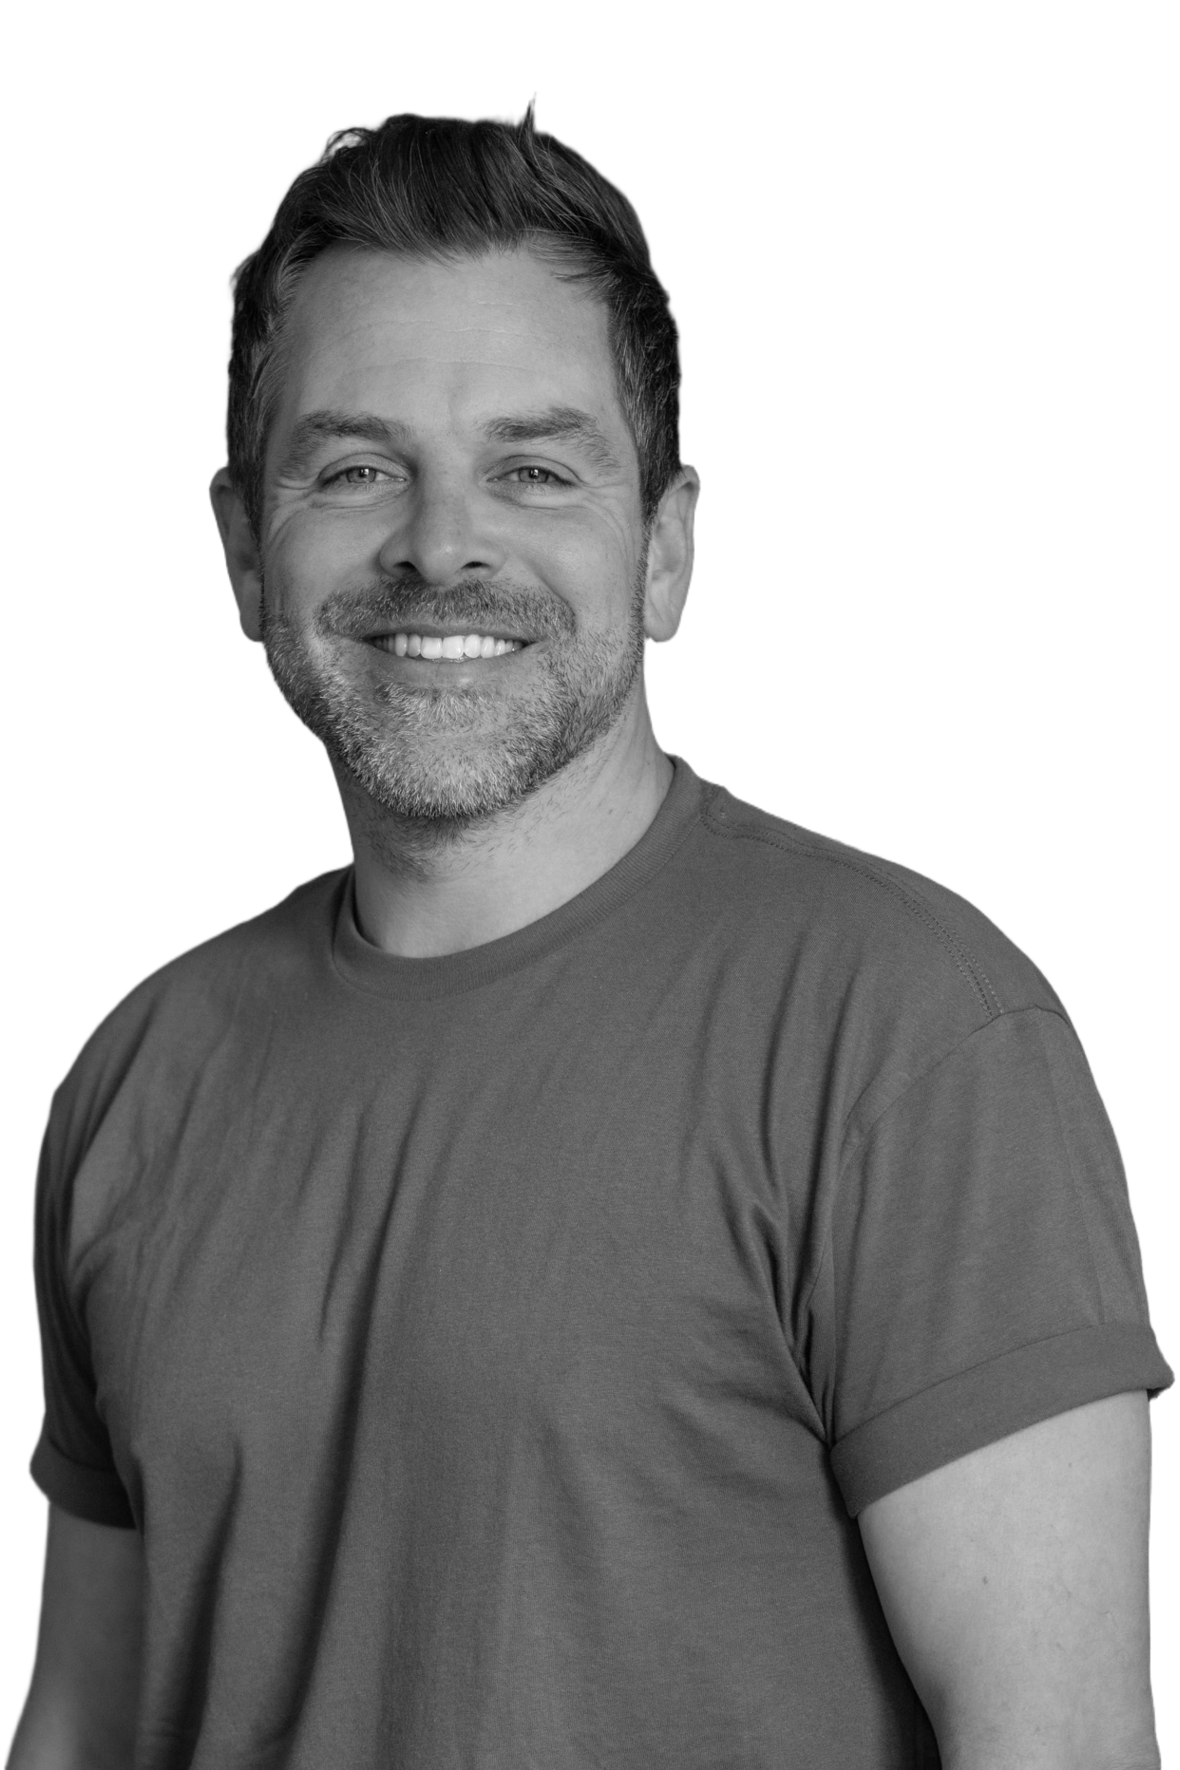
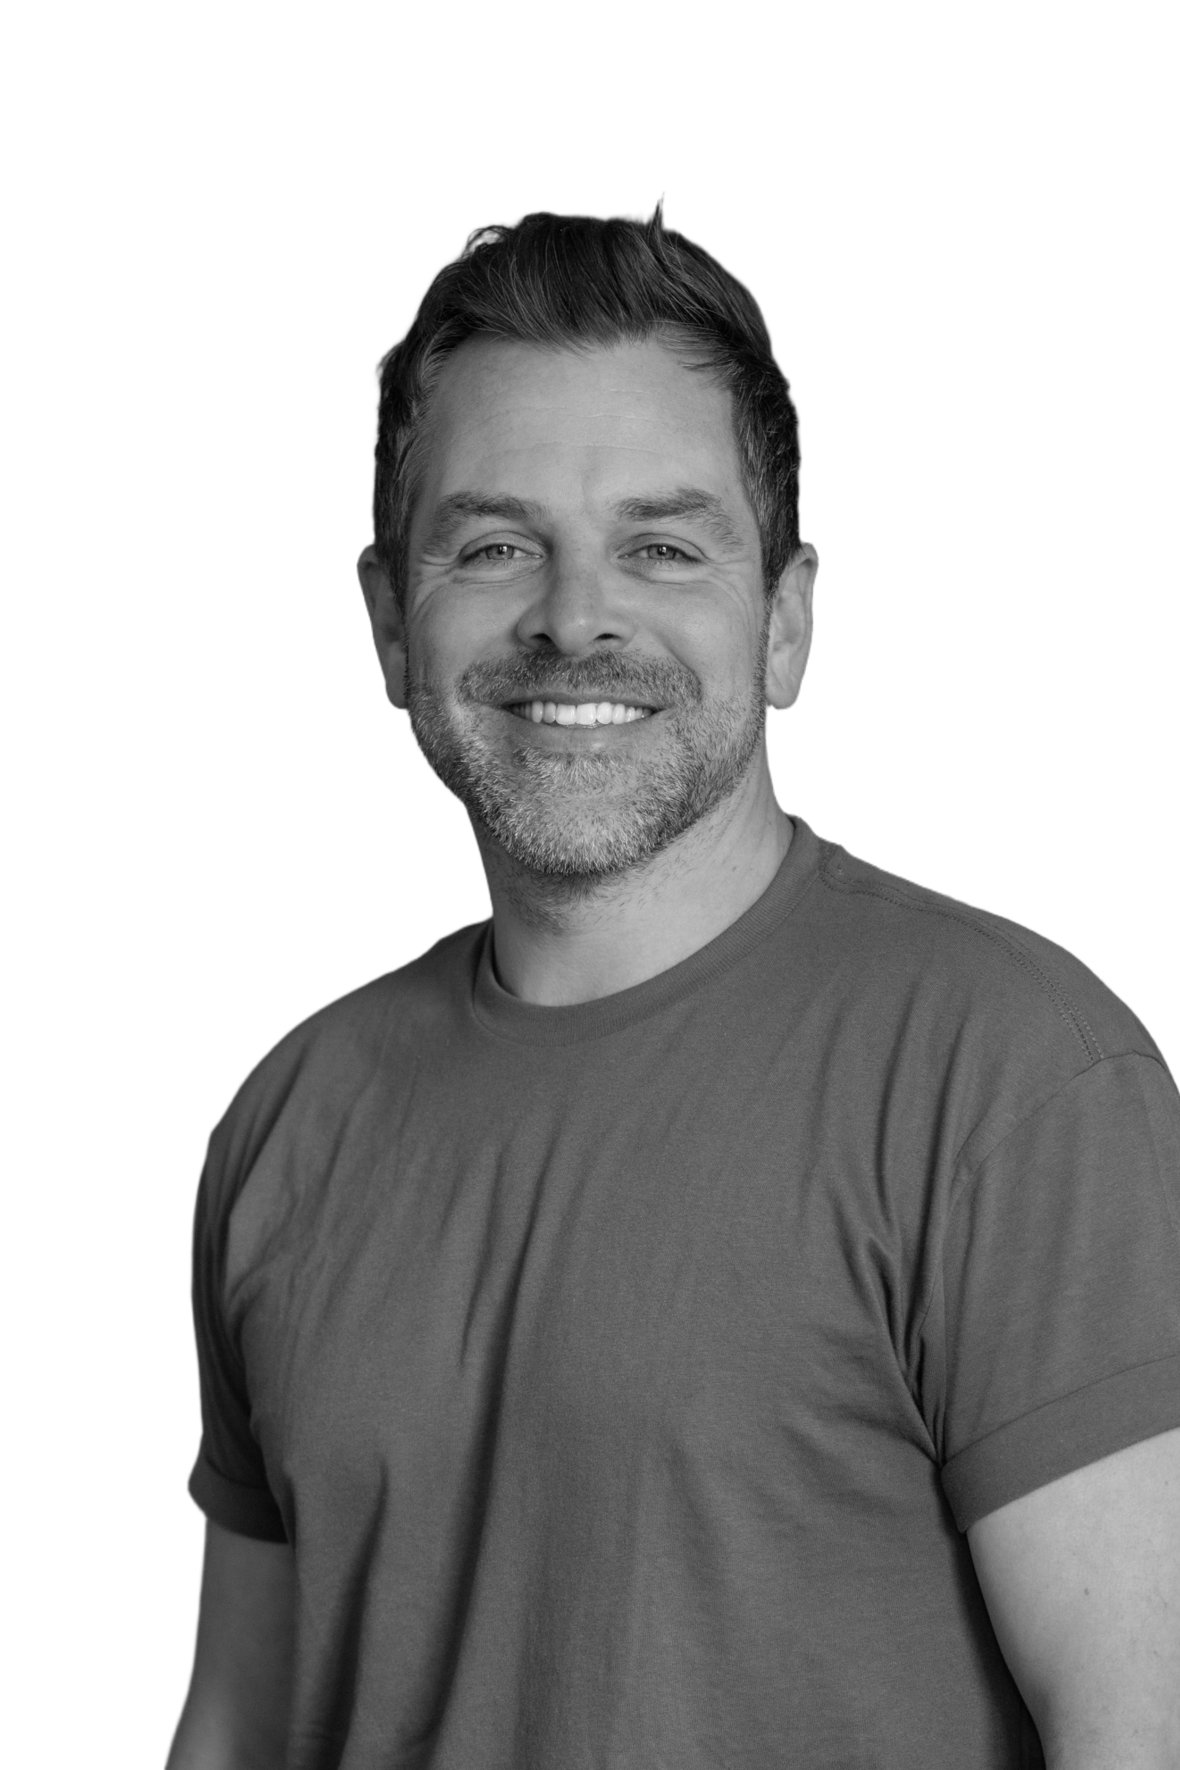
Update site styles, assets, and hero image.
Replit-Commit-Author: Agent

diff --git a/index.html b/index.html
@@ -213,7 +213,7 @@
         </div>
         <div class="section-resource__item">
           <div data-momentum-hover-element="" class="demo-card__wrap">
-            <div data-momentum-hover-target="" class="demo-card">
+            <div data-momentum-hover-target="" class="demo-card is--howards">
               <div class="demo-card__before"></div><img alt="Josh and Lashi Howard" src="images/howards.png" loading="eager" class="demo-card__image speaker6">
               <div class="demo-card__content">
                 <div class="demo-card__name">

diff --git a/css/underground-jesus.webflow.css b/css/underground-jesus.webflow.css
@@ -1097,6 +1097,10 @@
     width: 100%;
   }
 
+  .demo-card.is--howards .demo-card__before {
+    padding-top: 115%;
+  }
+
   .title {
     font-size: 4em;
   }
